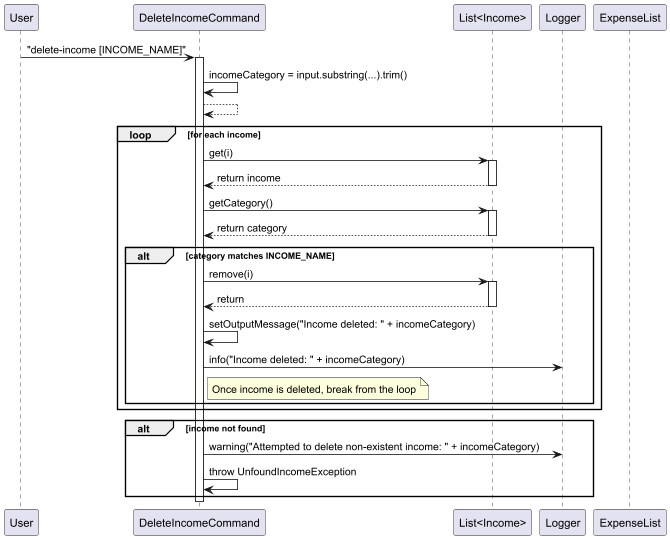
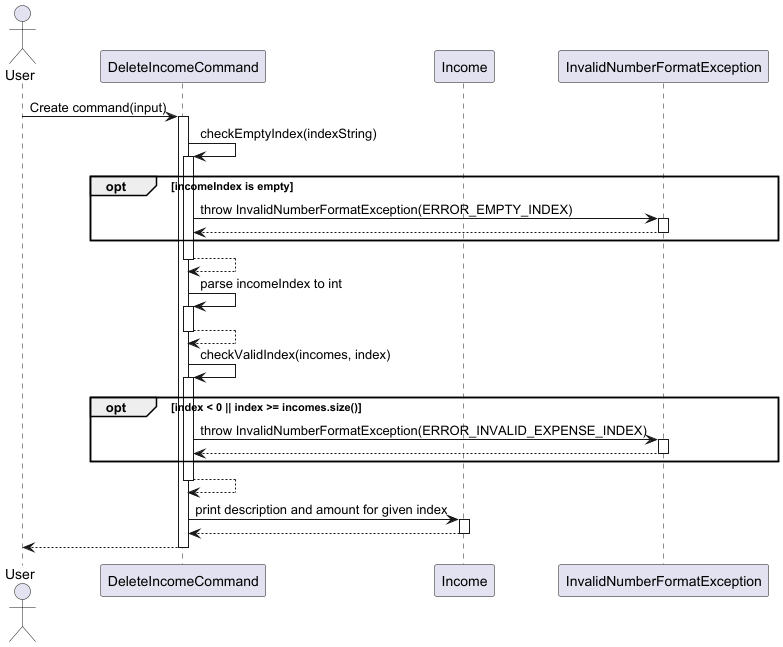
update DG, UG, PPP, for deleteIncomeCommand

diff --git a/src/main/java/budgetflow/command/DeleteIncomeCommand.java b/src/main/java/budgetflow/command/DeleteIncomeCommand.java
@@ -45,7 +45,6 @@ public class DeleteIncomeCommand extends Command {
      *
      * @param incomes      The list of income entries.
      * @param expenseList  The list of expense entries (unused in this command but required for consistency).
-     * @throws UnfoundIncomeException If the specified income category is not found.
      */
     //@@author Yikbing
     @Override

diff --git a/docs/team/yikbing.md b/docs/team/yikbing.md
@@ -8,12 +8,12 @@ filter them by category or date, and analyze their financial habits. It is writt
 ### Summary of Contributions
 * __New Feature:__ Added the ability to delete Expenses:
   * What it does: This feature allows users to delete their expenses by providing a command `delete-expense`. The user 
-  then has to enter `delete-expense [DESCRIPTION]`, which will then delete the corresponding entry from the list.
+  then has to enter `delete-expense [INDEX]`, which will then delete the corresponding entry from the list.
   * Justification: This feature helps users to be able to delete expenses that were wrongly accounted for.
 
 * __New Feature:__ Added the ability to delete Income:
     * What it does: This feature allows users to delete their expenses by providing a command `delete-income`. The user
-      then has to enter `delete-income [DESCRIPTION]`, which will then delete the corresponding entry from the list.
+      then has to enter `delete-income [INDEX]`, which will then delete the corresponding entry from the list.
     * Justification: This feature helps users to be able to delete income that were wrongly accounted for.
 
 * __New Feature:__ Added the ability to update Income:
@@ -32,12 +32,17 @@ filter them by category or date, and analyze their financial habits. It is writt
   * What it does: This method allows the program to be able to accurately identify whether the dates entered by the
   user is a valid date so that all dates that are inside the program is a valid date.
 
+* __Enhancements to existing features:__
+  * Fix bugs for `delete-income` and `delete-expense` to change the methods to delete based on index 
+  instead of descriptions, so overlapping names would not be a problem.[#189](https://github.com/AY2425S2-CS2113-T11a-1/tp/pull/189) [#193](https://github.com/AY2425S2-CS2113-T11a-1/tp/pull/193)
+  * Fix bugs for `DateValidator` such that it accounts for leap years and has more accurate dates.[#189](https://github.com/AY2425S2-CS2113-T11a-1/tp/pull/189)
+
 * __Code Contributed:__ [RepoSense Link](https://nus-cs2113-ay2425s2.github.io/tp-dashboard/?search=&sort=groupTitle&sortWithin=title&timeframe=commit&mergegroup=&groupSelect=groupByRepos&breakdown=true&checkedFileTypes=docs~functional-code~test-code~other&since=2025-02-21)__
 
 * __Documentation:__
     * User Guide:
-      * Added documentation for delete-expense, delete-income, compare expenses and update-income command [#111](https://github.com/AY2425S2-CS2113-T11a-1/tp/pull/111)
+      * Added documentation for `delete-expense`, `delete-income`, `compare` and `update-income` command [#111](https://github.com/AY2425S2-CS2113-T11a-1/tp/pull/111)
     * Developer Guide:
-      * Added delete-income, delete-expense, compare expenses and update-income for Implementation[#111](https://github.com/AY2425S2-CS2113-T11a-1/tp/pull/111)
+      * Added `delete-income`, `delete-expense`, `compare` and `update-income` for Implementation[#111](https://github.com/AY2425S2-CS2113-T11a-1/tp/pull/111)
 * __Community:__
     * PRs reviewed (with non-trivial review comments): [#98](https://github.com/AY2425S2-CS2113-T11a-1/tp/pull/98)

diff --git a/docs/DeveloperGuide.md b/docs/DeveloperGuide.md
@@ -492,8 +492,8 @@ filter-income date from/DD-MM-YYYY to/DD-MM-YYYY
 ### Deleting an Income Entry
 
 The `DeleteIncomeCommand` class extends the `Command` class and is responsible for processing the deletion of an income
-entry based on its category. If the specified income category is not found in the list of incomes,
-the command throws an exception (`UnfoundIncomeException`) to indicate the error.
+entry based on its Index. If the specified income index is not found in the list of incomes,
+the command throws an exception (`InvalidNumberFormatException`) to indicate the error.
 
 This class adheres to the Command design pattern, 
 where each command encapsulates a specific action (in this case, deleting an income entry).
@@ -517,11 +517,13 @@ where each command encapsulates a specific action (in this case, updating an inc
 
 Below is the Class Diagram of the `UpdateIncomeCommand` Class.
 
-![Delete Income Command Class Diagram](diagrams/UpdateIncomeCommandClass.png)
+![Update Income Command Class Diagram](diagrams/UpdateIncomeCommandClass.png)
 
 Below is the Command sequence of the `UpdateIncomeCommand` Class.
 
-![Delete Income Command Sequence](diagrams/UpdateIncomeCommandSequence.png)
+![Update Income Command Sequence](diagrams/UpdateIncomeCommandSequence.png)
+
+Below is the Command sequence of the `ParseInputAndValidateIndex` Ref Box. 
 
 ![Parse Input and Validate Index ](diagrams/ParseInputAndValidateIndex.png)
 
@@ -619,9 +621,9 @@ Below is the Command sequence of the reference box `IterateExpensesSequence`.
 ### Deleting an Expense Entry
 
 The `DeleteExpenseCommand` class extends the `Command` class and is responsible for processing
-the deletion of an expense entry based on its description.
-If the specified expense description is not found in the list of expenses,
-the command throws an exception (`UnfoundExpenseException`) to indicate the error.
+the deletion of an expense entry based on its Index.
+If the specified expense Index is not found in the list of expenses,
+the command throws an exception (`InvalidNumberFormatException`) to indicate the error.
 
 This class adheres to the Command design pattern, 
 where each command encapsulates a specific action (in this case, deleting an expense entry).

diff --git a/docs/UserGuide.md b/docs/UserGuide.md
@@ -82,12 +82,18 @@ Expense updated: [UPDATED_CATEGORY], Description: [UPDATED_DESCRIPTION], Amount:
 **Description:** Deletes an instance of an Income entry.
 **Command:**
 ```plaintext
-delete-income <NAME OF INCOME ENTRY>
+delete-income <INDEX OF INCOME ENTRY>
 ```
+
+**Example:**
+```plaintext
+delete-income 1
+```
+
 **Output:**
 ```plaintext
-Saving goal retrieved: [REMAINING OF SAVING GOAL]
-Income deleted: [NAME OF INCOME ENTRY]
+Saving goal retrieved: <REMAINING OF SAVING GOAL>
+Income deleted: <NAME OF INCOME ENTRY>, $<AMT>
 ```
 
 ---
@@ -98,10 +104,16 @@ Income deleted: [NAME OF INCOME ENTRY]
 ```plaintext
 delete-expense <INDEX OF EXPENSE ENTRY>
 ```
+
+**Example:**
+```plaintext
+delete-expense 1
+```
+
 **Output:**
 ```plaintext
 Saving goal retrieved: <REMAINING OF SAVING GOAL>
-Income deleted: <DESCRIPTION OF EXPENSE ENTRY>, $<AMT>
+Expense deleted: <DESCRIPTION OF EXPENSE ENTRY>, $<AMT>
 ```
 
 ---
@@ -112,10 +124,15 @@ Income deleted: <DESCRIPTION OF EXPENSE ENTRY>, $<AMT>
 ```plaintext
 compare <MM-YYYY> <MM-YYYY>
 ```
+**Example:**
+```plaintext
+compare 03-2025 04-2025
+```
+
 **Output:**
 ```plaintext
-Total expenses for MM-YYYY: [AMOUNT]
-Total expenses for MM-YYYY: [AMOUNT]
+Total expenses for MM-YYYY: $<AMT>
+Total expenses for MM-YYYY: $<AMT>
 ```
 
 ---
